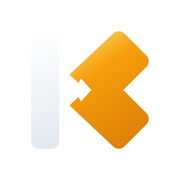
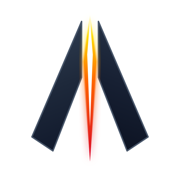
feat(brand): deploy official 2A Dual Ascent aerospace emblem across all platform assets

Changed region(s): [[0.1667, 0.1111, 0.8333, 0.8889]]

diff --git a/src/app/layout.tsx b/src/app/layout.tsx
@@ -53,15 +53,15 @@ export const metadata: Metadata = {
   applicationName: 'Kollabrix',
   icons: {
     icon: [
-      { url: '/favicon.ico?v=20261031_opt1', sizes: 'any' },
-      { url: '/favicon-v20261031.ico?v=20261031_opt1', sizes: 'any' },
-      { url: '/favicon-48x48.png?v=20261031_opt1', sizes: '48x48', type: 'image/png' },
-      { url: '/favicon-96x96.png?v=20261031_opt1', sizes: '96x96', type: 'image/png' },
-      { url: '/favicon-144x144.png?v=20261031_opt1', sizes: '144x144', type: 'image/png' },
+      { url: '/favicon.ico?v=20261031_v2a', sizes: 'any' },
+      { url: '/favicon-v20261031.ico?v=20261031_v2a', sizes: 'any' },
+      { url: '/favicon-48x48.png?v=20261031_v2a', sizes: '48x48', type: 'image/png' },
+      { url: '/favicon-96x96.png?v=20261031_v2a', sizes: '96x96', type: 'image/png' },
+      { url: '/favicon-144x144.png?v=20261031_v2a', sizes: '144x144', type: 'image/png' },
       { url: '/icon-192.png?v=20261031_opt1', sizes: '192x192', type: 'image/png' },
       { url: '/icon-512.png?v=20261031_opt1', sizes: '512x512', type: 'image/png' },
     ],
-    shortcut: '/favicon.ico?v=20261031_opt1',
+    shortcut: '/favicon.ico?v=20261031_v2a',
     apple: [
       { url: '/apple-touch-icon.png?v=20261031_opt1', sizes: '180x180', type: 'image/png' },
     ],
@@ -227,13 +227,13 @@ const jsonLd = {
       logo: {
         '@type': 'ImageObject',
         '@id': 'https://kollabrix.in/#logo',
-        url: 'https://kollabrix.in/brand/kollabrix-logo.png?v=20261031_opt1',
-        caption: 'Kollabrix Official Bracket Handshake Emblem',
+        url: 'https://kollabrix.in/brand/kollabrix-logo.png?v=20261031_v2a',
+        caption: 'Kollabrix Official Dual Ascent Aerospace Emblem',
         inLanguage: 'en-US',
         width: 512,
         height: 512,
       },
-      image: 'https://kollabrix.in/brand/kollabrix-logo.png?v=20261031_opt1',
+      image: 'https://kollabrix.in/brand/kollabrix-logo.png?v=20261031_v2a',
       sameAs: [
         'https://kollabrix.in',
         'https://github.com/goyalmayank142-pixel/LinkOra',
@@ -260,12 +260,12 @@ export default function RootLayout({
         <link rel="dns-prefetch" href="https://bmiwmlfraaridbekuily.supabase.co" />
         <meta name="google-site-verification" content="wm68NYFDShG-kXFb2jCPuUuSNRoOvIMk1ufsUt8Ih6s" />
         <meta name="google-site-verification" content="_9e80URLBq4PkCGyKTfFe_xXUFATPCms4P4zxPGcJk4" />
-        <link rel="icon" href="/favicon.ico?v=20261030_v3" sizes="any" />
-        <link rel="icon" type="image/png" sizes="48x48" href="/favicon-48x48.png?v=20261030_v3" />
-        <link rel="icon" type="image/png" sizes="96x96" href="/favicon-96x96.png?v=20261030_v3" />
-        <link rel="icon" type="image/png" sizes="144x144" href="/favicon-144x144.png?v=20261030_v3" />
-        <link rel="icon" type="image/png" sizes="192x192" href="/icon-192.png?v=20261030_v3" />
-        <link rel="apple-touch-icon" sizes="180x180" href="/apple-touch-icon.png?v=20261030_v3" />
+        <link rel="icon" href="/favicon.ico?v=20261031_v2a" sizes="any" />
+        <link rel="icon" type="image/png" sizes="48x48" href="/favicon-48x48.png?v=20261031_v2a" />
+        <link rel="icon" type="image/png" sizes="96x96" href="/favicon-96x96.png?v=20261031_v2a" />
+        <link rel="icon" type="image/png" sizes="144x144" href="/favicon-144x144.png?v=20261031_v2a" />
+        <link rel="icon" type="image/png" sizes="192x192" href="/icon-192.png?v=20261031_v2a" />
+        <link rel="apple-touch-icon" sizes="180x180" href="/apple-touch-icon.png?v=20261031_v2a" />
         <link rel="manifest" href="/manifest.json" />
         <meta name="application-name" content="Kollabrix" />
         <meta name="apple-mobile-web-app-title" content="Kollabrix" />

diff --git a/src/components/ui/BrandLogo.tsx b/src/components/ui/BrandLogo.tsx
@@ -41,8 +41,8 @@ export function BrandLogo({
         <div className="absolute inset-0 rounded-full bg-gradient-to-tr from-amber-500/25 via-orange-500/20 to-transparent blur-md pointer-events-none group-hover:from-amber-500/40 group-hover:via-orange-500/30 transition-all duration-300 scale-125" />
 
         <img
-          src="/brand/kollabrix-logo.svg?v=20261031_opt1"
-          alt="Kollabrix Official Bracket Handshake Emblem"
+          src="/brand/kollabrix-logo.svg?v=20261031_v2a"
+          alt="Kollabrix Official Dual Ascent Aerospace Emblem"
           className="relative z-10 w-full h-full object-contain filter drop-shadow-[0_4px_16px_rgba(245,158,11,0.6)] drop-shadow-[0_0_24px_rgba(251,191,36,0.3)] transition-all duration-300"
         />
       </div>

diff --git a/src/components/landing/CreativeHeroShowcase.tsx b/src/components/landing/CreativeHeroShowcase.tsx
@@ -38,8 +38,8 @@ export function CreativeHeroShowcase() {
             <div className="flex items-center gap-3">
               <div className="relative w-11 h-11 rounded-2xl overflow-hidden border border-amber-500/40 shadow-lg bg-stone-900 flex items-center justify-center shrink-0">
                 <img
-                  src="/brand/kollabrix-logo.svg?v=20261031_opt1"
-                  alt="Kollabrix Official Bracket Handshake Emblem"
+                  src="/brand/kollabrix-logo.svg?v=20261031_v2a"
+                  alt="Kollabrix Official Dual Ascent Aerospace Emblem"
                   className="w-full h-full object-contain p-1"
                 />
               </div>

diff --git a/src/components/arena/FullArenaExperience.tsx b/src/components/arena/FullArenaExperience.tsx
@@ -1217,8 +1217,8 @@ export function FullArenaExperience({
         <div className="flex items-center gap-3">
           <div className="w-10 h-10 relative shrink-0 flex items-center justify-center">
             <img
-              src="/brand/kollabrix-logo.svg?v=20261031_opt1"
-              alt="Kollabrix Official Bracket Handshake Emblem"
+              src="/brand/kollabrix-logo.svg?v=20261031_v2a"
+              alt="Kollabrix Official Dual Ascent Aerospace Emblem"
               className="w-full h-full object-contain filter drop-shadow-[0_2px_12px_rgba(245,158,11,0.5)]"
             />
           </div>
